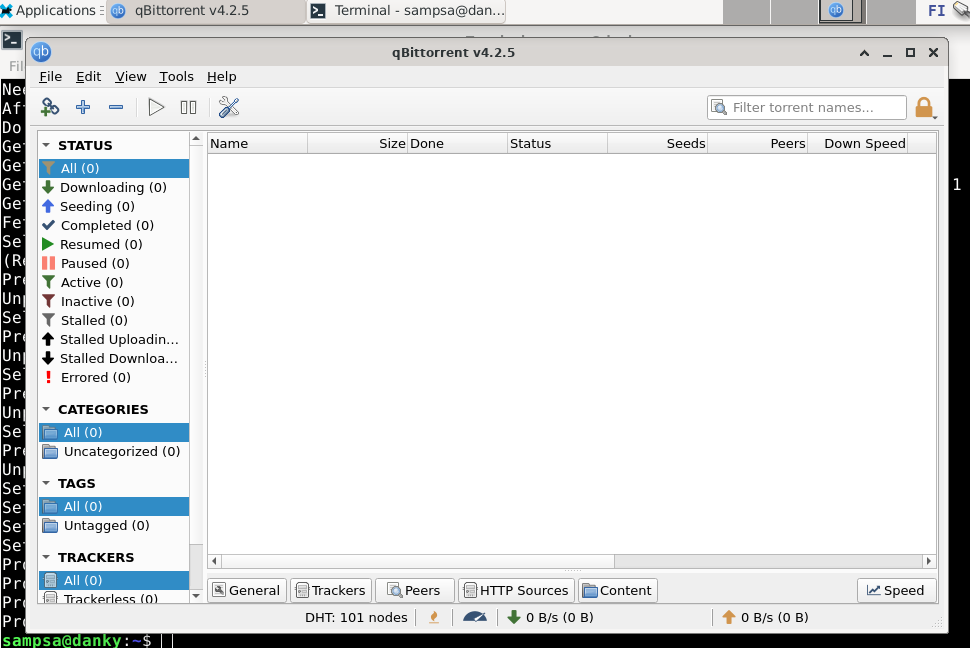
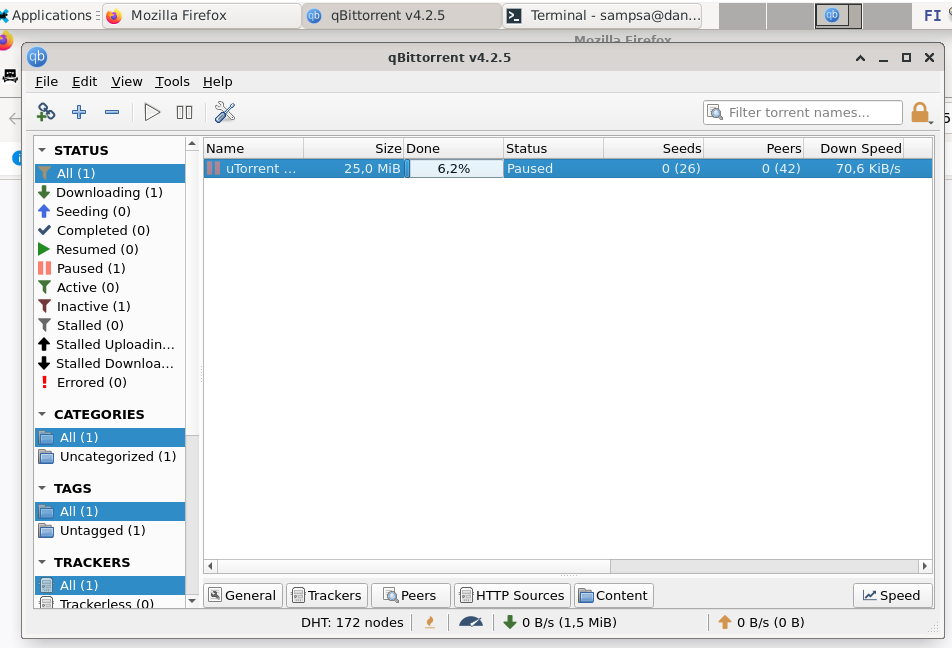
torrent

Changed region(s): [[0.0, 0.0, 1.0, 1.0]]

diff --git a/h1.md b/h1.md
@@ -13,7 +13,9 @@ Raudaltaan kone näyttäisi käyttävän omaa prosessoriani, mutta muistin ja ta
 
 <h2>Testiohjelmien asennus<h2>
 <h2>qBittorrent</h2>
-<p>Ensimmäinen asennettava ohjelmisto on luonnollisesti torrent-ohjelma. Olen Windows koneilla käyttänyt uTorrenttia ja BitTorrenttia. Asensin Debianille testimielessä qBittorrentin ja se näyttäisi toimivan moitteettomasti. Se käyttää GNU:n GPL lisenssiä. 
+<p>Ensimmäinen asennettava ohjelmisto on luonnollisesti torrent-ohjelma. Olen Windows koneilla käyttänyt uTorrenttia ja BitTorrenttia. Asensin Debianille testimielessä qBittorrentin ja se näyttäisi toimivan moitteettomasti; testitorrentti latautuu normaalisti. 
+
+Se käyttää GNU:n GPL lisenssiä. 
 
 <img alt="Image" title="Rauta" src="/images/qbittorrent.png" />
 </p>
